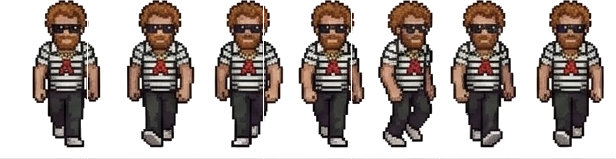
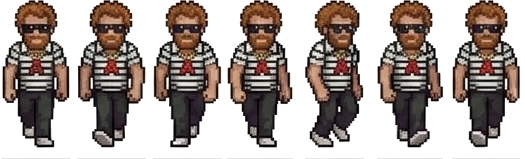
Animationen sauber ausgerichtet: an Spalten-Luecken geschnitten (kein Nachbar-Frame-Rest mehr) + jeder Frame am Kopf-Mittelpunkt registriert + gemeinsame Fusslinie; Frame-Groessen angepasst

diff --git a/script.js b/script.js
@@ -6,7 +6,7 @@
 
 // Sichtbare Build-Marke: zeigt im Header "v7", sobald DIESE Datei geladen ist.
 // Bleibt im Header "v6" stehen, läuft noch eine alte (gecachte) script.js.
-const BUILD_MARKE = 'v27 – Spieler-Sprite';
+const BUILD_MARKE = 'v28 – Frames sauber';
 document.addEventListener('DOMContentLoaded', () => {
   const st = document.querySelector('.subtitle');
   if (st) st.textContent = 'Arbeitslos zum Millionär — ' + BUILD_MARKE;
@@ -6360,11 +6360,11 @@ class SpielSzene extends Phaser.Scene {
     this.load.json('layout', 'layout/layout.json');
     this.load.json('collision', 'layout/collision.json');   // pixelgenaue Standflächen
     // Bettler-Animationen (4 Frames Stehen/Betteln, 8 Frames Gehen im Profil)
-    this.load.spritesheet('bettler_stand', 'assets/bettler_stand.png', { frameWidth: 152, frameHeight: 176 });
-    this.load.spritesheet('bettler_walk',  'assets/bettler_walk.png',  { frameWidth: 158, frameHeight: 171 });
+    this.load.spritesheet('bettler_stand', 'assets/bettler_stand.png', { frameWidth: 96,  frameHeight: 176 });
+    this.load.spritesheet('bettler_walk',  'assets/bettler_walk.png',  { frameWidth: 108, frameHeight: 171 });
     // Spieler-Animationen (7 Frames Front-Walk, 8 Frames Seitenprofil)
-    this.load.spritesheet('spieler_front', 'assets/spieler_front.png', { frameWidth: 88,  frameHeight: 159 });
-    this.load.spritesheet('spieler_side',  'assets/spieler_side.png',  { frameWidth: 157, frameHeight: 171 });
+    this.load.spritesheet('spieler_front', 'assets/spieler_front.png', { frameWidth: 75,  frameHeight: 159 });
+    this.load.spritesheet('spieler_side',  'assets/spieler_side.png',  { frameWidth: 108, frameHeight: 171 });
     this.load.on('loaderror', () => {});   // fehlende Datei still ignorieren
   }  // Audio läuft sonst über natives HTMLAudioElement
 
